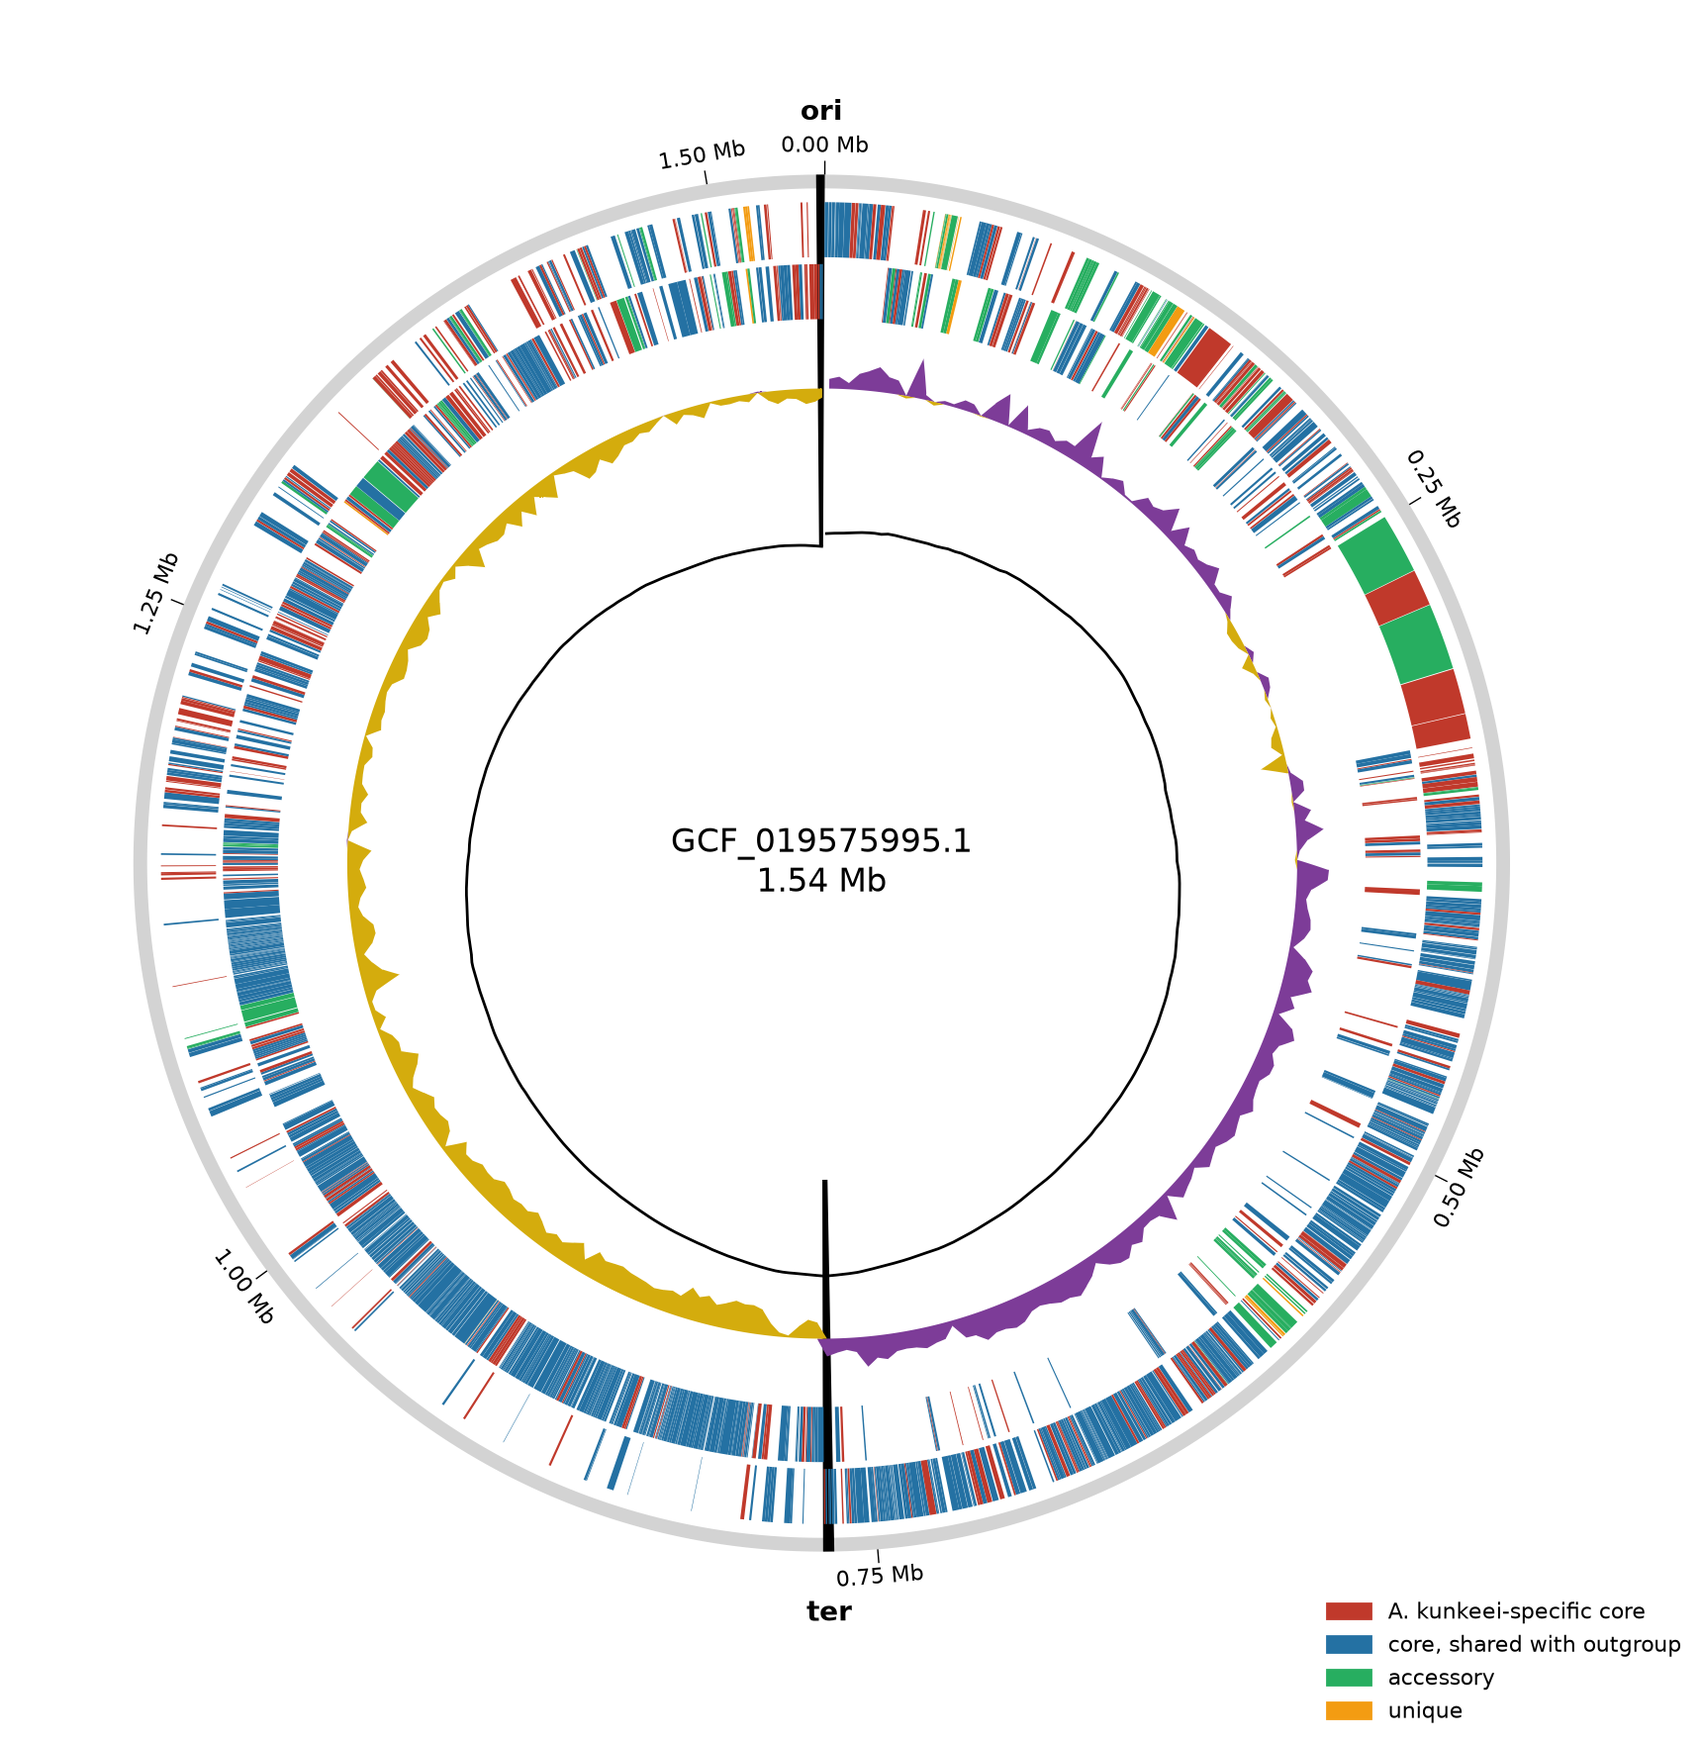
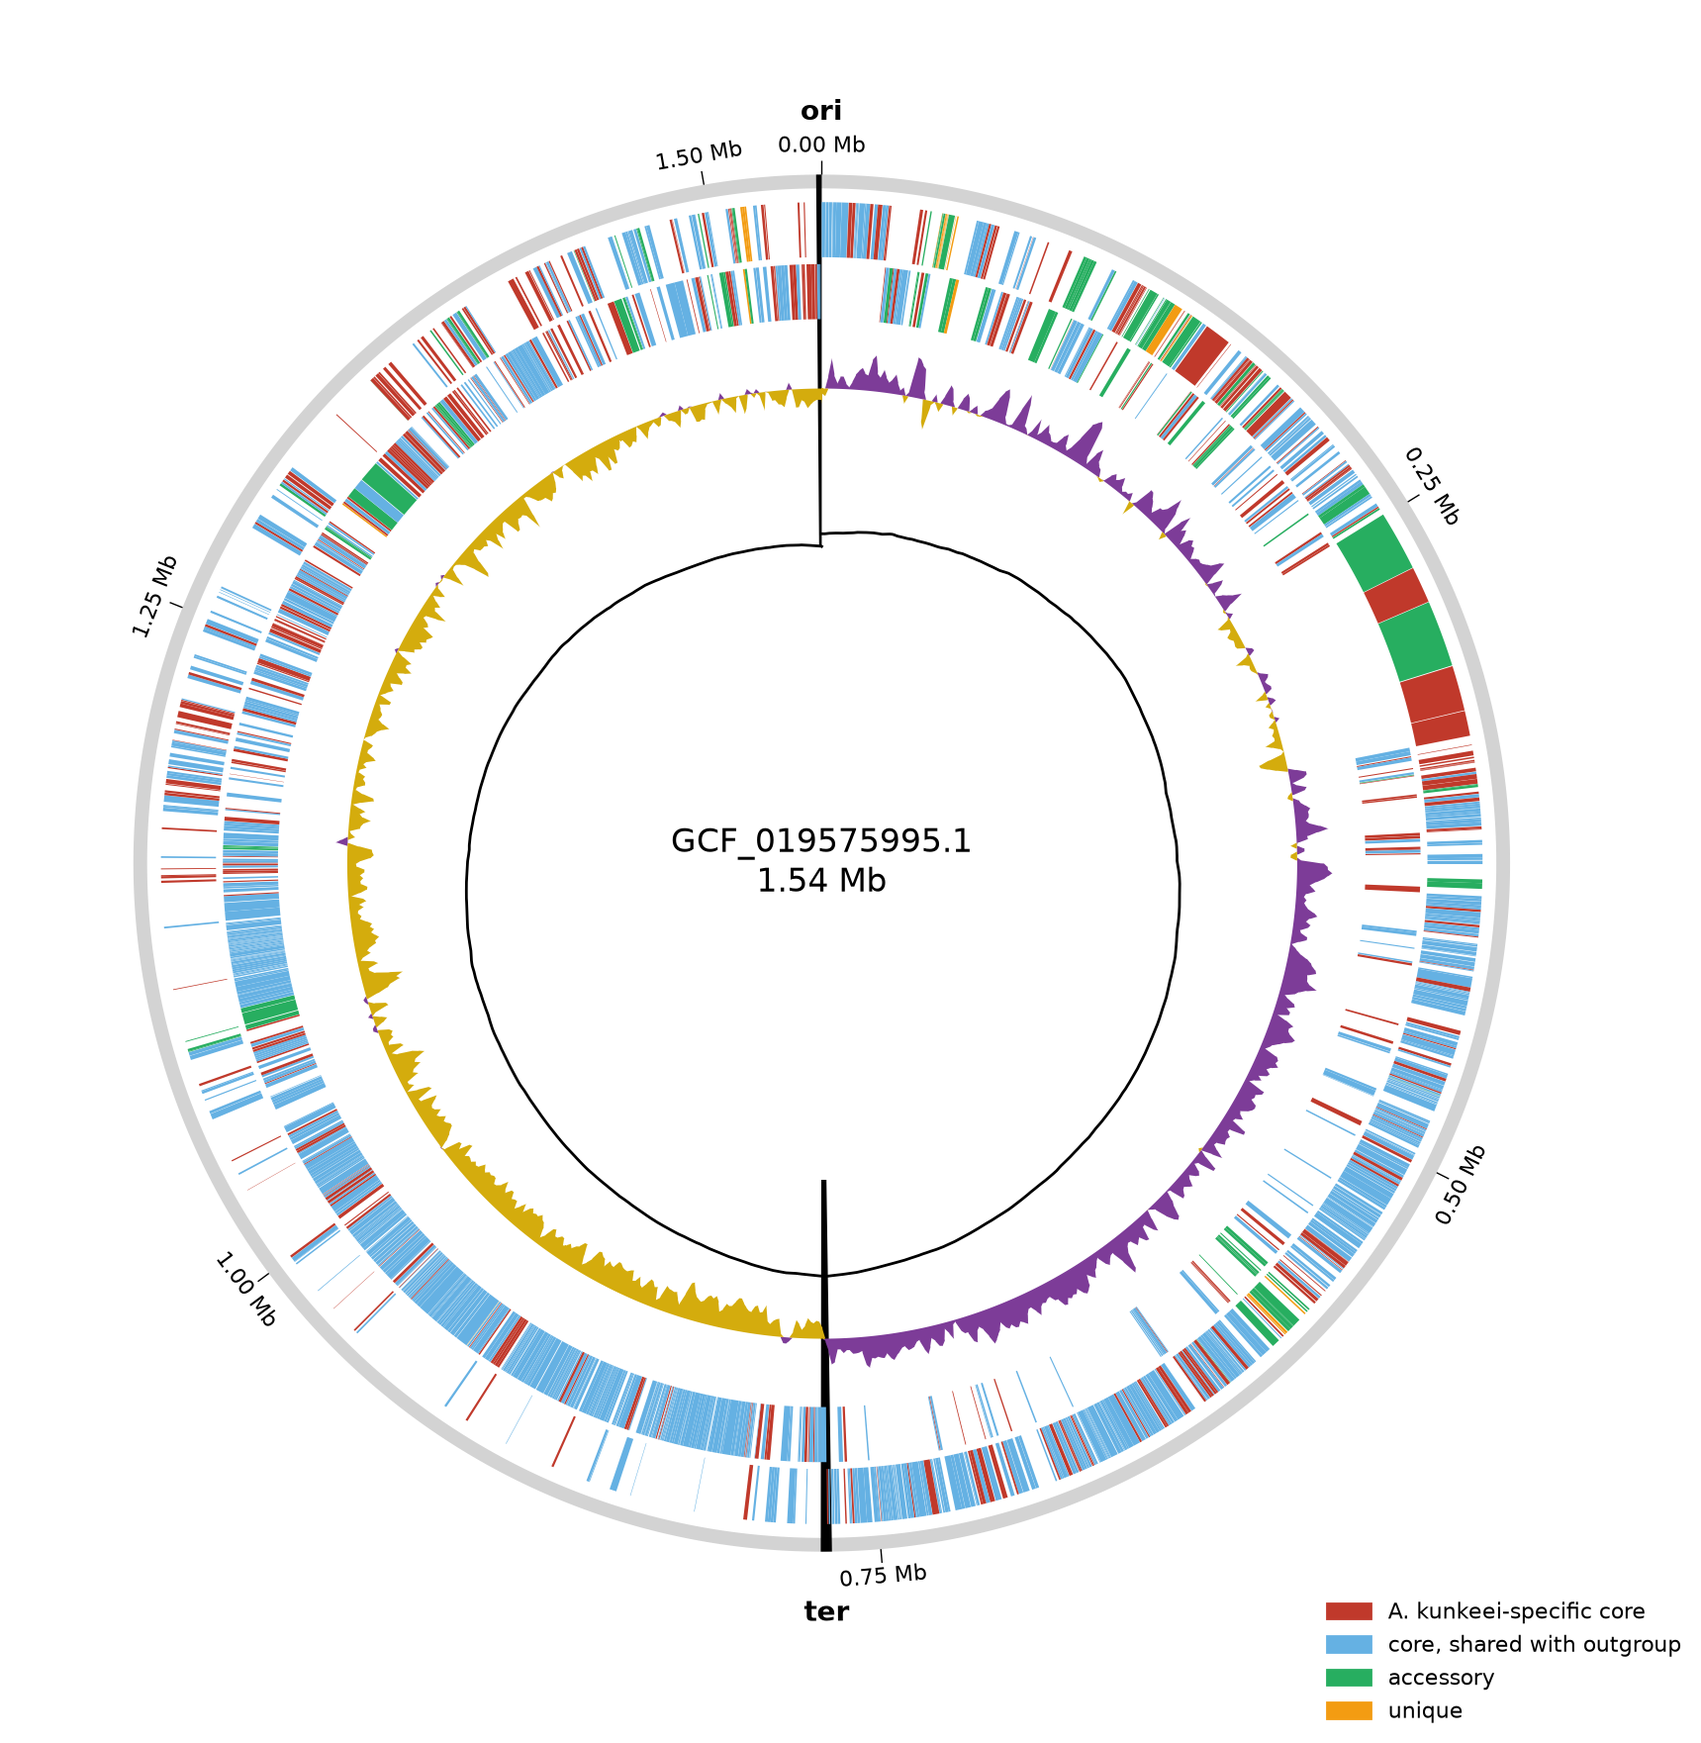
Use pyCirclize GC skew for ori/ter, add comments, rerun all circos plots

diff --git a/scripts/circlize.py b/scripts/circlize.py
@@ -15,6 +15,7 @@ from pathlib import Path
 import numpy as np
 import pandas as pd
 from pycirclize import Circos
+from pycirclize.parser import Genbank
 from matplotlib.patches import Patch
  
 # ---- settings ----
@@ -28,28 +29,31 @@ OUT.mkdir(parents=True, exist_ok=True)
  
 COLORS = {
     "Fructobacillus-specific core": "#c0392b",   # red
-    "core, shared with outgroup":   "#2471a3",   # blue
+    "core, shared with outgroup":   "#65b1e3",   # blue
     "accessory":                    "#27ae60",   # green
     "unique":                       "#f39c12",   # orange
 }
  
  
 # ---- reading files ----
+# Reads the .gff generated by Prokka.
+# Creates a table with one row per gene containing
+# sequence ID, start and end, strand (+ or -), locus tag and gene name.
 def read_gff(path):
     """CDS positions and sequence sizes from a Prokka GFF."""
     sizes, genes = {}, []
     with open(path) as fh:
         for line in fh:
-            if line.startswith("##FASTA"):
+            if line.startswith("##FASTA"):        # so we don't read the whole sequence
                 break
-            if line.startswith("##sequence-region"):
+            if line.startswith("##sequence-region"):   # used later to pick the longest sequence (chromosome)
                 _, seqid, _, end = line.split()
                 sizes[seqid] = int(end)
                 continue
-            if line.startswith("#"):
+            if line.startswith("#"):              # skip other header lines
                 continue
             f = line.rstrip("\n").split("\t")
-            if f[2] != "CDS":
+            if f[2] != "CDS":                     # only keep CDS genes
                 continue
             attrs = dict(x.split("=", 1) for x in f[8].split(";"))
             genes.append({"seqid": f[0], "start": int(f[3]), "end": int(f[4]),
@@ -58,59 +62,41 @@ def read_gff(path):
     return sizes, pd.DataFrame(genes)
  
  
-def read_sequence(path, seqid):
-    """One sequence from the ##FASTA part at the end of a Prokka GFF."""
-    seq, in_fasta, keep = [], False, False
-    with open(path) as fh:
-        for line in fh:
-            if line.startswith("##FASTA"):
-                in_fasta = True
-            elif in_fasta and line.startswith(">"):
-                keep = line[1:].split()[0] == seqid
-            elif in_fasta and keep:
-                seq.append(line.strip())
-    return "".join(seq).upper()
- 
- 
+# Orthogroups.tsv has one cell per genome and orthogroup, holding that genome's
+# genes in the group as Prokka locus tags, e.g. "MFOPEDCC_00169, MFOPEDCC_01022"
+# (several genes = paralogs). An empty cell means the genome lacks the orthogroup.
+# Returns the cell as a list of locus tags, or an empty list.
 def genes_in(cell):
     """Turn an Orthogroups.tsv cell ('A_001, A_002') into a list of gene IDs."""
     return [] if pd.isna(cell) else cell.split(", ")
  
  
-def gc_skew(seq, window=5000):
-    """(G - C) / (G + C) in non-overlapping windows."""
-    pos, skew = [], []
-    for i in range(0, len(seq), window):
-        w = seq[i:i + window]
-        g, c = w.count("G"), w.count("C")
-        pos.append(i + len(w) / 2)
-        skew.append((g - c) / (g + c) if g + c else 0)
-    return np.array(pos), np.array(skew)
- 
- 
 # ---- gene categories (done once, for all genomes) ----
-og_in = pd.read_csv(OF_IN / "Orthogroups.tsv", sep="\t", index_col=0)
-unassigned = pd.read_csv(OF_IN / "Orthogroups_UnassignedGenes.tsv", sep="\t", index_col=0)
-og_all = pd.read_csv(OF_ALL / "Orthogroups.tsv", sep="\t", index_col=0)
+og_in = pd.read_csv(OF_IN / "Orthogroups.tsv", sep="\t", index_col=0) #Fructobacillus run
+unassigned = pd.read_csv(OF_IN / "Orthogroups_UnassignedGenes.tsv", sep="\t", index_col=0) #holds genes OrthoFinder couldn’t put in any group
+og_all = pd.read_csv(OF_ALL / "Orthogroups.tsv", sep="\t", index_col=0) #Run with outgroup
 GENOMES = list(og_in.columns)                      # the 8 Fructobacillus
- 
+
+#Core, accessory, unique thresholds 
 category = {}
 for _, row in og_in.iterrows():
-    n = sum(len(genes_in(c)) > 0 for c in row)
+    n = sum(len(genes_in(c)) > 0 for c in row) #Count how many genomes have at least one gene in it
     cat = "core" if n == 8 else "accessory" if n >= 2 else "unique"
     for genome in GENOMES:
         for g in genes_in(row[genome]):
-            category[g] = cat
+            category[g] = cat #Assign category (core, accessory or unique)      
 for genome in GENOMES:
     for g in unassigned[genome].dropna():
-        category[g] = "unique"
- 
+        category[g] = "unique" #Unassinged genes added as unique
+
+# Collect all Fructobacillus genes that share an orthogroup with LMES (from the outgroup run)
+#list of Fructobacillus genes whose family also exists in LMES
 with_outgroup = set()
 for _, row in og_all[og_all[OUTGROUP].notna()].iterrows():
     for genome in GENOMES:
         with_outgroup.update(genes_in(row[genome]))
  
- 
+#If category is core it checks if the gene is also in the outgroup and if it is it is assinged blue otherwise red 
 def final_category(gene):
     cat = category.get(gene, "unique")
     if cat == "core":
@@ -118,7 +104,8 @@ def final_category(gene):
     return cat
  
  
-# ---- short names from the metadata (GCA_... -> GCF_...) ----
+# ---- short names from the metadata ----
+#links each accession to a short strain name, such as GCF_058511985.1 to ESL1096, used in the plot titles and file names.
 meta = pd.read_csv(REPO / "metadata" / "genome_metadata.tsv", sep="\t")
 NAMES = {acc: strain.split()[-1].replace("_", "")
          for acc, strain in zip(meta.accession, meta.species_strain)}
@@ -134,7 +121,9 @@ def plot_genome(genome):
     genes = genes[genes.seqid == chrom].copy()
     genes["category"] = genes.locus_tag.map(final_category)
  
-    pos, skew = gc_skew(read_sequence(gff, chrom))
+    # GC skew in sliding windows, calculated by pyCirclize from the Prokka GenBank file
+    gbk = Genbank(PROKKA / f"{genome}_annotated" / f"{genome}.gbk")
+    pos, skew = gbk.calc_gc_skew(seq=gbk.get_seqid2seq()[chrom])
     cum_skew = np.cumsum(skew)
     ori = pos[np.argmin(cum_skew)]
     ter = pos[np.argmax(cum_skew)]
@@ -147,35 +136,42 @@ def plot_genome(genome):
     start = -360 * ori / size
     circos = Circos({chrom: size}, start=start, end=start + 360)
     sector = circos.sectors[0]
- 
+
+    #Gray scale ring, label every 250 kb
     axis = sector.add_track((98, 100))
     axis.axis(fc="lightgrey", ec="none")
     axis.xticks_by_interval(250_000, label_formatter=lambda v: f"{v/1e6:.2f} Mb")
- 
+
+    #+ strand outside, - strand inside
     fwd = sector.add_track((88, 96))
     rev = sector.add_track((79, 87))
     for g in genes.itertuples():
         track = fwd if g.strand == "+" else rev
         track.rect(g.start - 1, g.end, fc=COLORS[g.category], lw=0)
- 
+
+    #GC skew ring
     lim = np.abs(skew).max()
     sk = sector.add_track((62, 76))
     sk.fill_between(pos, np.where(skew > 0, skew, 0), vmin=-lim, vmax=lim, color="#7d3c98", lw=0)
     sk.fill_between(pos, np.where(skew < 0, skew, 0), vmin=-lim, vmax=lim, color="#d4ac0d", lw=0)
- 
+
+    #Cumulative skew, black line
     cs = sector.add_track((46, 60))
     cs.line(pos, cum_skew, vmin=cum_skew.min(), vmax=cum_skew.max(), color="black", lw=1)
- 
+
+    #Marks ori and ter
     for label, x in (("ori", ori), ("ter", ter)):
         sector.rect(max(0, x - 2000), min(size, x + 2000), r_lim=(46, 100), fc="black", lw=0)
         sector.text(label, x=x, r=107, size=10, fontweight="bold")
- 
+
+    #Puts the name and size in the centre, turns the circle into a matplotlib figure, adds the colour legend and saves the PNG
     circos.text(f"{name}\n{size/1e6:.2f} Mb", size=12)
     fig = circos.plotfig()
     handles = [Patch(color=c, label=k) for k, c in COLORS.items()]
     fig.legend(handles=handles, loc="lower right", fontsize=8, frameon=False)
     fig.savefig(OUT / f"{name}_circos.png", dpi=200)
- 
+
+    #counts the genes per category and returns one row of information for this genome
     counts = genes.category.value_counts().to_dict()
     return {"genome": name, "accession": genome, "size_bp": size,
             "ori": round(ori), "ter": round(ter), "dnaA_to_ori_bp": round(dnaA_dist), **counts}
@@ -184,4 +180,3 @@ def plot_genome(genome):
 summary = pd.DataFrame([plot_genome(g) for g in GENOMES]).fillna(0)
 summary.to_csv(OUT / "summary.tsv", sep="\t", index=False)
 print(summary.to_string(index=False))
- 

diff --git a/scripts/circlize_softcore.py b/scripts/circlize_softcore.py
@@ -15,6 +15,7 @@ from pathlib import Path
 import numpy as np
 import pandas as pd
 from pycirclize import Circos
+from pycirclize.parser import Genbank
 from matplotlib.patches import Patch
  
 # ---- settings ----
@@ -28,28 +29,31 @@ OUT.mkdir(parents=True, exist_ok=True)
  
 COLORS = {
     "Fructobacillus-specific core": "#c0392b",   # red
-    "core, shared with outgroup":   "#2471a3",   # blue
+    "core, shared with outgroup":   "#65b1e3",   # blue
     "accessory":                    "#27ae60",   # green
     "unique":                       "#f39c12",   # orange
 }
  
  
 # ---- reading files ----
+# Reads the .gff generated by Prokka.
+# Creates a table with one row per gene containing
+# sequence ID, start and end, strand (+ or -), locus tag and gene name.
 def read_gff(path):
     """CDS positions and sequence sizes from a Prokka GFF."""
     sizes, genes = {}, []
     with open(path) as fh:
         for line in fh:
-            if line.startswith("##FASTA"):
+            if line.startswith("##FASTA"):        # so we don't read the whole sequence
                 break
-            if line.startswith("##sequence-region"):
+            if line.startswith("##sequence-region"):   # used later to pick the longest sequence (chromosome)
                 _, seqid, _, end = line.split()
                 sizes[seqid] = int(end)
                 continue
-            if line.startswith("#"):
+            if line.startswith("#"):              # skip other header lines
                 continue
             f = line.rstrip("\n").split("\t")
-            if f[2] != "CDS":
+            if f[2] != "CDS":                     # only keep CDS genes
                 continue
             attrs = dict(x.split("=", 1) for x in f[8].split(";"))
             genes.append({"seqid": f[0], "start": int(f[3]), "end": int(f[4]),
@@ -58,34 +62,13 @@ def read_gff(path):
     return sizes, pd.DataFrame(genes)
  
  
-def read_sequence(path, seqid):
-    """One sequence from the ##FASTA part at the end of a Prokka GFF."""
-    seq, in_fasta, keep = [], False, False
-    with open(path) as fh:
-        for line in fh:
-            if line.startswith("##FASTA"):
-                in_fasta = True
-            elif in_fasta and line.startswith(">"):
-                keep = line[1:].split()[0] == seqid
-            elif in_fasta and keep:
-                seq.append(line.strip())
-    return "".join(seq).upper()
- 
- 
+# Orthogroups.tsv has one cell per genome and orthogroup, holding that genome's
+# genes in the group as Prokka locus tags, e.g. "MFOPEDCC_00169, MFOPEDCC_01022"
+# (several genes = paralogs). An empty cell means the genome lacks the orthogroup.
+# Returns the cell as a list of locus tags, or an empty list.
 def genes_in(cell):
     """Turn an Orthogroups.tsv cell ('A_001, A_002') into a list of gene IDs."""
     return [] if pd.isna(cell) else cell.split(", ")
- 
- 
-def gc_skew(seq, window=5000):
-    """(G - C) / (G + C) in non-overlapping windows."""
-    pos, skew = [], []
-    for i in range(0, len(seq), window):
-        w = seq[i:i + window]
-        g, c = w.count("G"), w.count("C")
-        pos.append(i + len(w) / 2)
-        skew.append((g - c) / (g + c) if g + c else 0)
-    return np.array(pos), np.array(skew)
  
  
 # ---- gene categories (done once, for all genomes) ----
@@ -134,7 +117,9 @@ def plot_genome(genome):
     genes = genes[genes.seqid == chrom].copy()
     genes["category"] = genes.locus_tag.map(final_category)
  
-    pos, skew = gc_skew(read_sequence(gff, chrom))
+    # GC skew in sliding windows, calculated by pyCirclize from the Prokka GenBank file
+    gbk = Genbank(PROKKA / f"{genome}_annotated" / f"{genome}.gbk")
+    pos, skew = gbk.calc_gc_skew(seq=gbk.get_seqid2seq()[chrom])
     cum_skew = np.cumsum(skew)
     ori = pos[np.argmin(cum_skew)]
     ter = pos[np.argmax(cum_skew)]
@@ -184,4 +169,3 @@ def plot_genome(genome):
 summary = pd.DataFrame([plot_genome(g) for g in GENOMES]).fillna(0)
 summary.to_csv(OUT / "summary.tsv", sep="\t", index=False)
 print(summary.to_string(index=False))
- 

diff --git a/scripts/circlize_a_kunkeei.py b/scripts/circlize_a_kunkeei.py
@@ -15,6 +15,7 @@ from pathlib import Path
 import numpy as np
 import pandas as pd
 from pycirclize import Circos
+from pycirclize.parser import Genbank
 from matplotlib.patches import Patch
  
 # ---- settings ----
@@ -28,28 +29,31 @@ OUT.mkdir(parents=True, exist_ok=True)
  
 COLORS = {
     "A. kunkeei-specific core": "#c0392b",   # red
-    "core, shared with outgroup":   "#2471a3",   # blue
+    "core, shared with outgroup":   "#65b1e3",   # blue
     "accessory":                    "#27ae60",   # green
     "unique":                       "#f39c12",   # orange
 }
  
  
 # ---- reading files ----
+# Reads the .gff generated by Prokka.
+# Creates a table with one row per gene containing
+# sequence ID, start and end, strand (+ or -), locus tag and gene name.
 def read_gff(path):
     """CDS positions and sequence sizes from a Prokka GFF."""
     sizes, genes = {}, []
     with open(path) as fh:
         for line in fh:
-            if line.startswith("##FASTA"):
+            if line.startswith("##FASTA"):        # so we don't read the whole sequence
                 break
-            if line.startswith("##sequence-region"):
+            if line.startswith("##sequence-region"):   # used later to pick the longest sequence (chromosome)
                 _, seqid, _, end = line.split()
                 sizes[seqid] = int(end)
                 continue
-            if line.startswith("#"):
+            if line.startswith("#"):              # skip other header lines
                 continue
             f = line.rstrip("\n").split("\t")
-            if f[2] != "CDS":
+            if f[2] != "CDS":                     # only keep CDS genes
                 continue
             attrs = dict(x.split("=", 1) for x in f[8].split(";"))
             genes.append({"seqid": f[0], "start": int(f[3]), "end": int(f[4]),
@@ -58,34 +62,13 @@ def read_gff(path):
     return sizes, pd.DataFrame(genes)
  
  
-def read_sequence(path, seqid):
-    """One sequence from the ##FASTA part at the end of a Prokka GFF."""
-    seq, in_fasta, keep = [], False, False
-    with open(path) as fh:
-        for line in fh:
-            if line.startswith("##FASTA"):
-                in_fasta = True
-            elif in_fasta and line.startswith(">"):
-                keep = line[1:].split()[0] == seqid
-            elif in_fasta and keep:
-                seq.append(line.strip())
-    return "".join(seq).upper()
- 
- 
+# Orthogroups.tsv has one cell per genome and orthogroup, holding that genome's
+# genes in the group as Prokka locus tags, e.g. "MFOPEDCC_00169, MFOPEDCC_01022"
+# (several genes = paralogs). An empty cell means the genome lacks the orthogroup.
+# Returns the cell as a list of locus tags, or an empty list.
 def genes_in(cell):
     """Turn an Orthogroups.tsv cell ('A_001, A_002') into a list of gene IDs."""
     return [] if pd.isna(cell) else cell.split(", ")
- 
- 
-def gc_skew(seq, window=5000):
-    """(G - C) / (G + C) in non-overlapping windows."""
-    pos, skew = [], []
-    for i in range(0, len(seq), window):
-        w = seq[i:i + window]
-        g, c = w.count("G"), w.count("C")
-        pos.append(i + len(w) / 2)
-        skew.append((g - c) / (g + c) if g + c else 0)
-    return np.array(pos), np.array(skew)
  
  
 # ---- gene categories (done once, for all genomes) ----
@@ -134,7 +117,9 @@ def plot_genome(genome):
     genes = genes[genes.seqid == chrom].copy()
     genes["category"] = genes.locus_tag.map(final_category)
  
-    pos, skew = gc_skew(read_sequence(gff, chrom))
+    # GC skew in sliding windows, calculated by pyCirclize from the Prokka GenBank file
+    gbk = Genbank(PROKKA / f"{genome}_annotated" / f"{genome}.gbk")
+    pos, skew = gbk.calc_gc_skew(seq=gbk.get_seqid2seq()[chrom])
     cum_skew = np.cumsum(skew)
     ori = pos[np.argmin(cum_skew)]
     ter = pos[np.argmax(cum_skew)]
